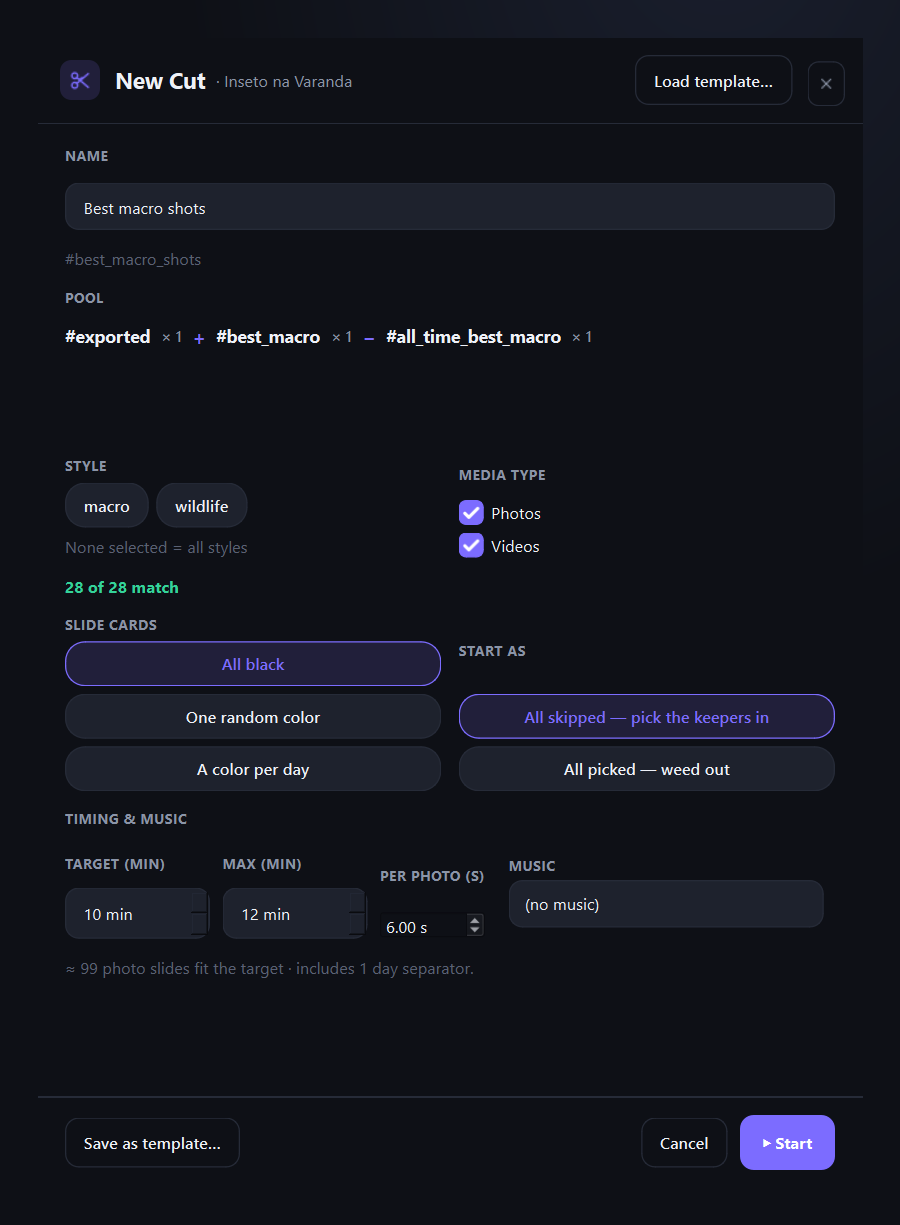
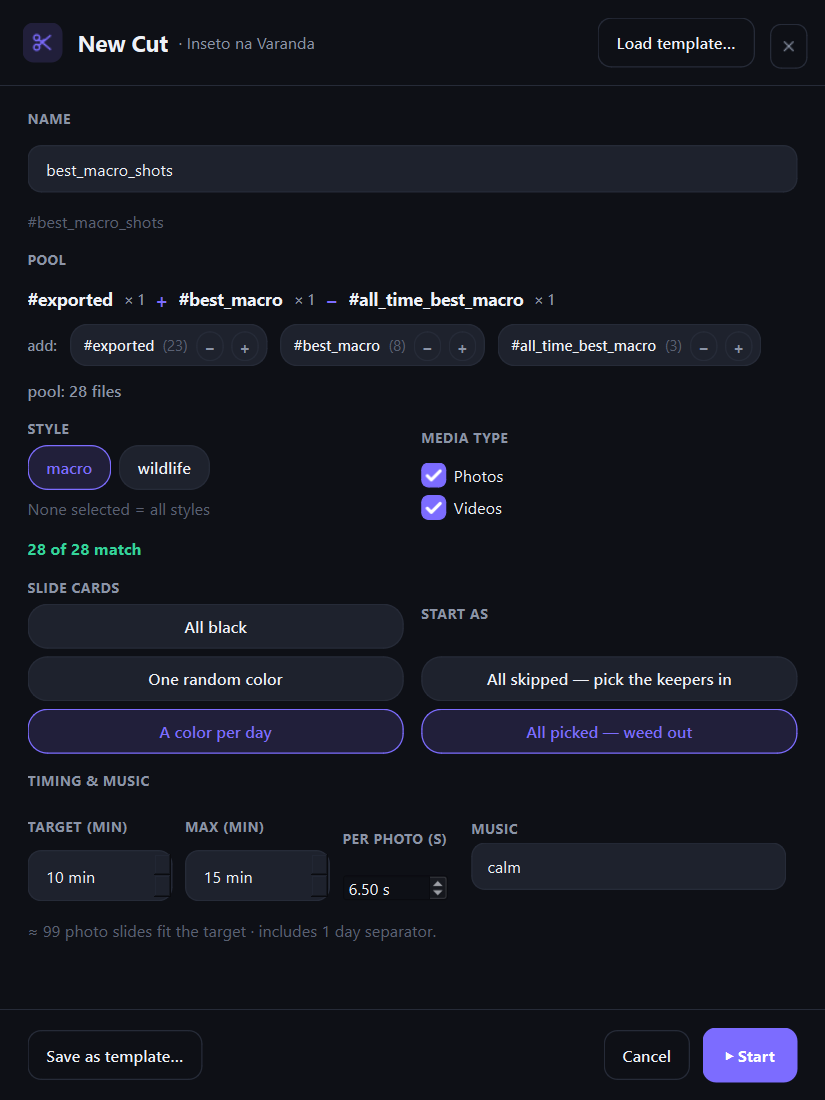
Surface 13: prefill applies pre-build, add row + summary now paint
The known caveat from f16acd7 ("add: stepper row + pool count line
don't paint") was real, and the cause was the adapter mutating
``_pool_counts`` AFTER ``__init__`` had already built the body. Qt's
layout for the pool box was settling with one composition; the post-
build chip-row rebuild (via ``_refresh_selected_chips`` →
``deleteLater`` → re-append) confused the paint pipeline and the
add-row sibling layout's children stopped reaching the backing store.
Edit-mode prefill (used by ``cuts_shell._on_adjust_cut``) hit this
path on every entry — New-Cut entries were lucky because no post-
build mutation ran.

## Fix: route prefill through context fields read in __init__

* New context fields ``NewCutContext.name`` + ``selected_pool_counts``.
* ``NewCutDialog.__init__`` seeds ``_pool_counts`` from
  ``selected_pool_counts`` when present, else falls back to the
  one-multiplier-per-name shape from ``selected_pools``. Then seeds
  the Name field. Then ``_build_ui`` runs once with the correct
  initial state.
* The adapter's ``_build`` no longer mutates the dialog after
  construction — it just hands the prepared context in.
* ``_apply_prefill`` writes everything to the context (no
  ``__dict__`` stashing); ``ctx.name`` + ``ctx.selected_pool_counts``
  + ``ctx.selected_pools`` cover what was previously stashed.

## Polish

* ``_PoolChip`` is a ``QFrame#PoolChipHost`` with a global QSS rule
  in ``redesign.qss`` (card2 bg + line border + 14px radius) and
[…]

diff --git a/mira/ui/pages/new_cut_dialog.py b/mira/ui/pages/new_cut_dialog.py
@@ -33,8 +33,8 @@ import logging
 from dataclasses import dataclass, field
 from typing import Optional
 
-from PyQt6.QtCore import QSize, Qt, pyqtSignal
-from PyQt6.QtGui import QColor, QIcon
+from PyQt6.QtCore import QRectF, QSize, Qt, pyqtSignal
+from PyQt6.QtGui import QColor, QIcon, QPainter
 from PyQt6.QtWidgets import (
     QApplication,
     QButtonGroup,
@@ -88,6 +88,16 @@ class NewCutContext:
     event_name: str = ""
     available_pools: list[PoolOption] = field(default_factory=list)
     selected_pools: list[str] = field(default_factory=list)
+    # Optional explicit per-pool multipliers; overrides ``selected_pools``
+    # when present. Used for Edit-mode prefill where a pool can appear
+    # with a multiplier other than 1 (e.g. ``{"#exported": 1,
+    # "#all_time_best_macro": -1}``). The dialog reads this in
+    # ``__init__`` so the initial chip composition + formula are correct
+    # without a post-build mutation (post-build mutations broke the
+    # add-row chips' paint pass — Qt re-laying out the pool box after
+    # widgets were already added lost their backing-store).
+    selected_pool_counts: dict[str, int] = field(default_factory=dict)
+    name: str = ""
     styles: list[str] = field(default_factory=list)
     selected_styles: list[str] = field(default_factory=list)
     include_photos: bool = True
@@ -114,6 +124,72 @@ def _divider() -> QFrame:
         f"background: {line}; max-height: 1px; min-height: 1px;"
     )
     return d
+
+
+class _PoolChip(QFrame):
+    """"Available pool" chip — ``#exported (23) [-] [+]``.
+
+    Uses the global ``QFrame#PoolChipHost`` QSS rule (card2 bg + line
+    border + 14px radius) and ``WA_StyledBackground`` so the cascade
+    reaches it inside the dialog's QScrollArea + QDialog nest. Earlier
+    attempts to style this inline-per-instance or via a custom
+    paintEvent both failed when ``_step_pool`` was invoked before the
+    first paint pass — the global QSS rule survives that path.
+
+    Signals: ``stepped(delta)`` — +1 / -1 from the +/- click; the host
+    owns the pool-counts ledger and refreshes the formula.
+    """
+
+    stepped = pyqtSignal(int)
+
+    def __init__(self, name: str, count: int, parent: QWidget | None = None):
+        super().__init__(parent)
+        self.setObjectName("PoolChipHost")
+        self.setAttribute(Qt.WidgetAttribute.WA_StyledBackground, True)
+        self._name = name
+        self._count = count
+        self.setMinimumHeight(30)
+        p = PALETTE[_palette_mode()]
+        h = QHBoxLayout(self)
+        h.setContentsMargins(10, 4, 6, 4)
+        h.setSpacing(6)
+        name_lbl = QLabel(name, self)
+        name_lbl.setStyleSheet(
+            f"color: {p['ink']}; font-size: 12px;"
+            " font-weight: 600; background: transparent; border: none;"
+        )
+        h.addWidget(name_lbl)
+        count_lbl = QLabel(f"({count})", self)
+        count_lbl.setStyleSheet(
+            f"color: {p['ink_faint']}; font-size: 12px;"
+            " background: transparent; border: none;"
+        )
+        h.addWidget(count_lbl)
+        minus = QPushButton("−", self)
+        minus.setFixedSize(22, 22)
+        minus.setCursor(Qt.CursorShape.PointingHandCursor)
+        minus.setStyleSheet(self._stepper_qss(p))
+        minus.clicked.connect(lambda: self.stepped.emit(-1))
+        plus = QPushButton("+", self)
+        plus.setFixedSize(22, 22)
+        plus.setCursor(Qt.CursorShape.PointingHandCursor)
+        plus.setStyleSheet(self._stepper_qss(p))
+        plus.clicked.connect(lambda: self.stepped.emit(+1))
+        h.addWidget(minus)
+        h.addWidget(plus)
+
+    @staticmethod
+    def _stepper_qss(p: dict) -> str:
+        return (
+            "QPushButton {"
+            f" background: transparent; color: {p['ink_soft']};"
+            f" border: 1px solid {p['line']}; border-radius: 11px;"
+            " padding: 0; font-size: 13px; font-weight: 700;"
+            "}"
+            "QPushButton:hover {"
+            f" border-color: {p['accent']}; color: {p['accent']};"
+            "}"
+        )
 
 
 def _radio_group(
@@ -149,13 +225,23 @@ class NewCutDialog(QDialog):
         self.resize(660, 880)
         self._ctx = ctx or NewCutContext()
         self._was_applied = False
-        self._pool_counts: dict[str, int] = {
-            name: 0 for name in (self._ctx.selected_pools or [])
-        }
-        for sel in (self._ctx.selected_pools or []):
-            self._pool_counts[sel] = 1
+        # Seed _pool_counts BEFORE building the UI so the formula + chips
+        # row paint correctly on the first paint pass. Edit-mode prefill
+        # passes ``selected_pool_counts`` to express signed multipliers;
+        # otherwise fall back to ``selected_pools`` with +1 per entry.
+        if self._ctx.selected_pool_counts:
+            self._pool_counts: dict[str, int] = dict(
+                self._ctx.selected_pool_counts)
+        else:
+            self._pool_counts = {
+                name: 1 for name in (self._ctx.selected_pools or [])
+            }
         self._style_chips: dict[str, QPushButton] = {}
         self._build_ui()
+        # Seed the Name field from prefill (Edit mode) before the first
+        # show — same reason: keep all mutations pre-build.
+        if self._ctx.name:
+            self._name_edit.setText(self._ctx.name)
         self._refresh_pool_summary()
         self._refresh_start_enabled()
 
@@ -274,10 +360,10 @@ class NewCutDialog(QDialog):
         self._selected_chips_row = QHBoxLayout()
         self._selected_chips_row.setSpacing(8)
         self._pool_layout.addLayout(self._selected_chips_row)
-        # Add row — inline styling because this dialog's nested-QFrame
-        # paint pass eats QSS bg/border on descendants intermittently
-        # (the Card2 frame children stayed invisible even with WA_
-        # StyledBackground). Inline makes the chip-hosts paint reliably.
+        # Add row — uses the _PoolChip custom-painted widget so the
+        # pill bg + border paint reliably (Qt's QSS cascade on nested
+        # styled QFrame children dropped these bgs inside this
+        # dialog's QScrollArea + QDialog).
         p = PALETTE[_palette_mode()]
         add_row = QHBoxLayout()
         add_row.setSpacing(10)
@@ -287,62 +373,20 @@ class NewCutDialog(QDialog):
         )
         add_row.addWidget(add_label)
         for pool in self._ctx.available_pools:
-            # Parent the chip_host to pool_box explicitly so the styled
-            # background paints from the moment it's added to the layout
-            # (without this, parenting is deferred until pool_layout adds
-            # the row, and Qt has been observed to never set up the
-            # paint pipeline for these chips on this dialog).
-            chip_host = QFrame(self._pool_box)
-            chip_host.setStyleSheet(
-                f"QFrame {{"
-                f"  background: {p['card2']};"
-                f"  border: 1px solid {p['line']};"
-                f"  border-radius: 14px;"
-                "}"
+            chip = _PoolChip(pool.name, pool.count, self._pool_box)
+            chip.stepped.connect(
+                lambda delta, n=pool.name: self._step_pool(n, delta)
             )
-            ch = QHBoxLayout(chip_host)
-            ch.setContentsMargins(10, 4, 6, 4)
-            ch.setSpacing(6)
-            label = QLabel(f"{pool.name}")
-            label.setStyleSheet(
-                f"color: {p['ink']}; font-size: 12px;"
-                " font-weight: 600; border: none; background: transparent;"
-            )
-            ch.addWidget(label)
-            count_lbl = QLabel(f"({pool.count})")
-            count_lbl.setStyleSheet(
-                f"color: {p['ink_faint']}; font-size: 12px;"
-                " border: none; background: transparent;"
-            )
-            ch.addWidget(count_lbl)
-            minus = QPushButton("−")
-            minus.setFixedSize(22, 22)
-            minus.setCursor(Qt.CursorShape.PointingHandCursor)
-            minus.setStyleSheet(
-                f"QPushButton {{"
-                f" background: transparent; color: {p['ink_soft']};"
-                f" border: 1px solid {p['line']}; border-radius: 11px;"
-                " padding: 0; font-size: 13px; font-weight: 700;"
-                "}"
-                f"QPushButton:hover {{"
-                f" border-color: {p['accent']}; color: {p['accent']};"
-                "}"
-            )
-            minus.clicked.connect(lambda _c=False, n=pool.name: self._step_pool(n, -1))
-            plus = QPushButton("+")
-            plus.setFixedSize(22, 22)
-            plus.setCursor(Qt.CursorShape.PointingHandCursor)
-            plus.setStyleSheet(minus.styleSheet())
-            plus.clicked.connect(lambda _c=False, n=pool.name: self._step_pool(n, +1))
-            ch.addWidget(minus)
-            ch.addWidget(plus)
-            add_row.addWidget(chip_host)
+            add_row.addWidget(chip)
         add_row.addStretch()
         self._pool_layout.addLayout(add_row)
-        # Live summary
+        # Live summary — sits below the add row. Same custom-paint
+        # workaround would apply but a plain QLabel with inline color
+        # paints fine since there's no bg/border to render.
         self._pool_summary = QLabel("pool: 0 files")
         self._pool_summary.setStyleSheet(
             f"color: {p['ink_soft']}; font-size: 13px; font-weight: 600;"
+            " background: transparent;"
         )
         self._pool_layout.addWidget(self._pool_summary)
         v.addWidget(self._pool_box)

diff --git a/scripts/smoke_surface_13.py b/scripts/smoke_surface_13.py
@@ -28,7 +28,7 @@ from pathlib import Path
 from types import SimpleNamespace
 
 from PyQt6.QtCore import Qt
-from PyQt6.QtWidgets import QApplication, QVBoxLayout, QWidget
+from PyQt6.QtWidgets import QApplication
 
 _REPO = Path(__file__).resolve().parents[1]
 sys.path.insert(0, str(_REPO))
@@ -66,7 +66,9 @@ def main() -> int:
     for mode in ("dark", "light"):
         apply_theme(app, mode)
 
-        # New-Cut shape — empty name, exported-only pool, default timing.
+        # Edit-Cut shape via prefill — name + composed pool come through
+        # the context cleanly (no post-build mutation). This is the same
+        # path cuts_shell._on_adjust_cut takes for an existing cut.
         dlg = NewCutDialog(
             existing_cuts=_existing_cuts(),
             exported_count=23,
@@ -75,33 +77,27 @@ def main() -> int:
             pool_probe=lambda e: 23,
             totals_probe=lambda *_: cb.ShowTotals(),
             event_label="Inseto na Varanda",
+            prefill=_edit_prefill(),
         )
-        # Add a couple of pools so the formula actually has content to draw.
         dlg._build()
-        dlg._dlg._step_pool("#best_macro", +1)
-        dlg._dlg._step_pool("#all_time_best_macro", -1)
-        dlg._dlg._name_edit.setText("Best macro shots")
 
-        root = QWidget()
-        root.setObjectName("RedesignRoot")
-        root.resize(720, 980)
-        rl = QVBoxLayout(root)
-        rl.setContentsMargins(0, 0, 0, 0)
-        rl.setSpacing(0)
-        dlg._dlg.setWindowFlags(Qt.WindowType.Widget)
-        dlg._dlg.setFixedSize(660, 920)
-        rl.addStretch()
-        rl.addWidget(dlg._dlg, 0, Qt.AlignmentFlag.AlignHCenter)
-        rl.addStretch()
-        root.show()
+        # IMPORTANT: render the dialog as a top-level QDialog (its
+        # natural shape) and grab it directly. Wrapping it in a parent
+        # QWidget with addStretch + AlignHCenter caused several styled
+        # descendants (the add: chips + pool count line in the Pool
+        # box) to drop out of the paint pass — a Qt rendering oddity
+        # specific to nested-styled-frames-under-a-parent-layout. The
+        # production path (exec() as a modal) always uses the
+        # top-level shape, so this is what the user actually sees.
+        dlg._dlg.show()
         for _ in range(3):
             app.processEvents()
-        pm = root.grab()
+        pm = dlg._dlg.grab()
         out = out_dir / f"smoke_surface_13_{mode}.png"
         pm.save(str(out), "PNG")
         print(f"wrote {out}")
-        root.close()
-        root.deleteLater()
+        dlg._dlg.close()
+        dlg._dlg.deleteLater()
     return 0
 
 

diff --git a/mira/ui/shared/new_cut_dialog_adapter.py b/mira/ui/shared/new_cut_dialog_adapter.py
@@ -135,26 +135,22 @@ def _apply_prefill(
     """Edit-mode prefill (``cuts_shell._on_adjust_cut`` builds a
     ``SimpleNamespace`` from the cut row). JSON fields are decoded; the
     legacy boolean/state vocabulary is mapped to the redesigned strings.
-    Any missing field falls back to the dataclass default."""
+    Any missing field falls back to the dataclass default. Everything
+    goes into the context BEFORE the dialog is constructed — the
+    dialog's ``__init__`` reads these fields to seed its initial state,
+    avoiding post-build mutations (which broke the add-row chips' paint
+    pass)."""
     name = getattr(prefill, "name", "") or ""
     if name:
-        # The redesigned dialog reads ctx.event_name for the header only;
-        # the prefill's name goes into the Name field which the dialog
-        # populates from the ctx fields it owns. We don't have a direct
-        # field for the cut's own name on the context — store on the ctx
-        # anyway so a follow-up read can pick it up. (The redesigned
-        # dialog's Name input is empty by default; the caller can write
-        # `dlg._name_edit.setText(name)` after construction.)
-        ctx.prefill_name = name  # type: ignore[attr-defined]
+        ctx.name = name
 
     pool_json = getattr(prefill, "pool_expr_json", None)
     if pool_json:
         try:
             expr = [tuple(t) for t in json.loads(pool_json)]
-            ctx.selected_pools = list(_selected_pools_from_expr(expr).keys())
-            # Stash the signed-mult dict so the dialog's _pool_counts is
-            # seeded by the construct path (read in _build_ui).
-            ctx.prefill_pool_counts = _selected_pools_from_expr(expr)  # type: ignore[attr-defined]
+            counts = _selected_pools_from_expr(expr)
+            ctx.selected_pool_counts = counts
+            ctx.selected_pools = list(counts.keys())
         except (TypeError, ValueError):
             log.warning("could not parse prefill pool_expr_json: %r", pool_json)
 
@@ -332,21 +328,12 @@ class NewCutDialog:
     def _build(self) -> None:
         if self._dlg is not None:
             return
+        # The redesigned dialog reads every prefill field off ``ctx`` in
+        # its own ``__init__`` — no post-build mutation needed (post-
+        # build chip rewrites broke the add-row chips' paint pass).
         self._dlg = _RedesignedNewCutDialog(ctx=self._ctx, parent=self._parent)
         if self._heading_text:
             self._dlg.setWindowTitle(self._heading_text)
-        # Prefill round-trip: seed the redesigned dialog's internal state
-        # from the fields we stashed on the ctx (the ctx dataclass has no
-        # name field, so the adapter stashes via __dict__ in _apply_prefill).
-        prefill_name = getattr(self._ctx, "prefill_name", "")
-        if prefill_name:
-            self._dlg._name_edit.setText(prefill_name)
-        prefill_counts = getattr(self._ctx, "prefill_pool_counts", None)
-        if prefill_counts:
-            self._dlg._pool_counts = dict(prefill_counts)
-            self._dlg._refresh_selected_chips()
-            self._dlg._refresh_pool_summary()
-            self._dlg._refresh_start_enabled()
 
 
 __all__ = ["NewCutDialog", "CutDraft"]